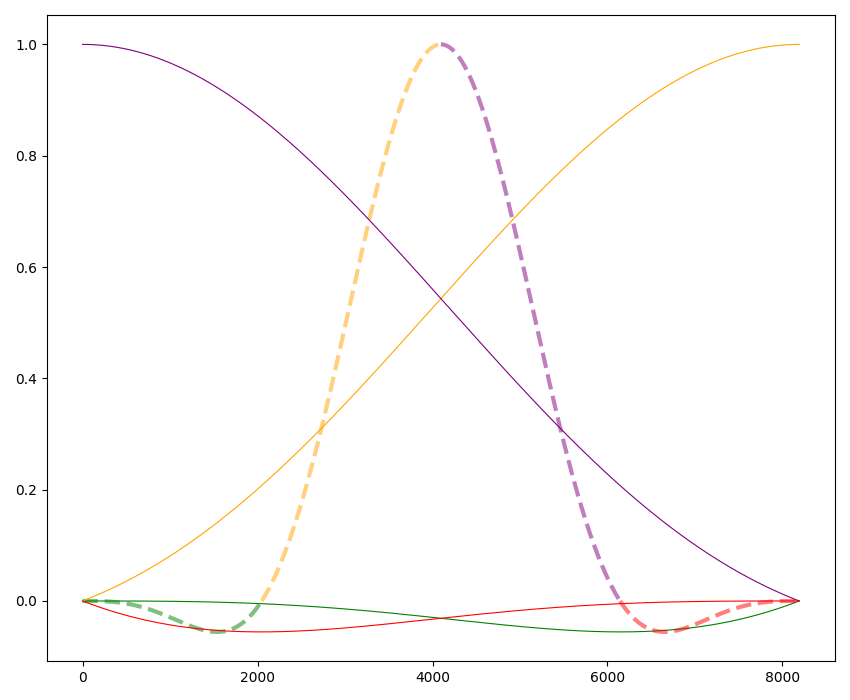
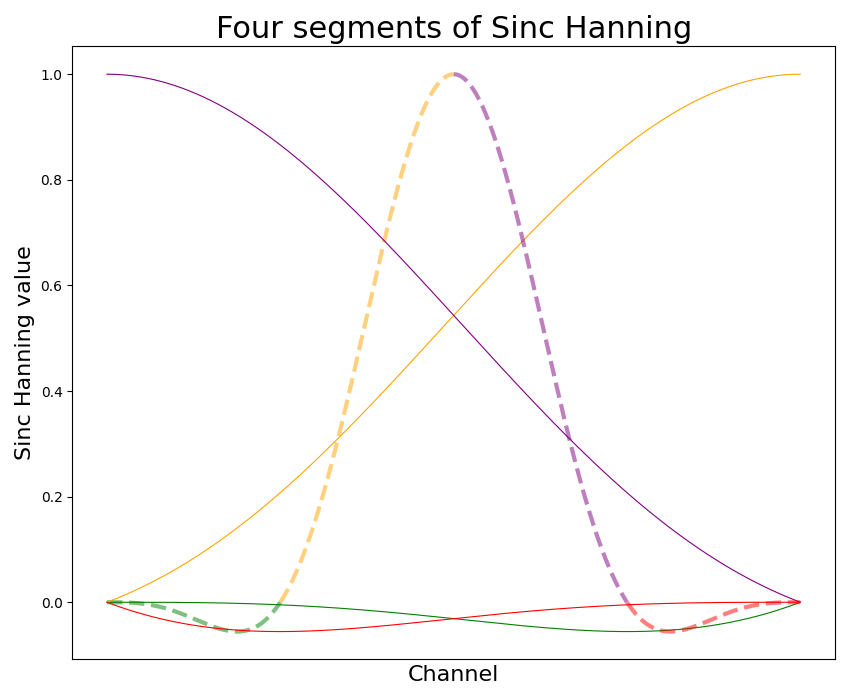
four segments of sinc hanning

diff --git a/plots/four_segments_sinc_hanning.py b/plots/four_segments_sinc_hanning.py
@@ -40,8 +40,15 @@ plt.plot(np.arange(2*lblock,3*lblock), sinc_hann[2*lblock:3*lblock], "--", color
 plt.plot(seg3, color="red", linewidth=0.8, label="segment 3")
 plt.plot(np.arange(3*lblock,4*lblock), sinc_hann[3*lblock:], "--", color="red", alpha=0.5, linewidth=3)
 # Labels, formatting
-plt.xlabel("", fontsize=16)
-plt.ylabel("", fontsize=16)
+plt.tick_params(
+    axis='x',          # changes apply to the x-axis
+    which='both',      # both major and minor ticks are affected
+    bottom=False,      # ticks along the bottom edge are off
+    top=False,         # ticks along the top edge are off
+    labelbottom=False)
+plt.xlabel("Channel", fontsize=16)
+plt.ylabel("Sinc Hanning value", fontsize=16)
+plt.title("Four segments of Sinc Hanning",fontsize=22)
 plt.tight_layout()
 # Optionally save the figure
 plt.savefig("img/four_segments_sinc_hanning.png")
